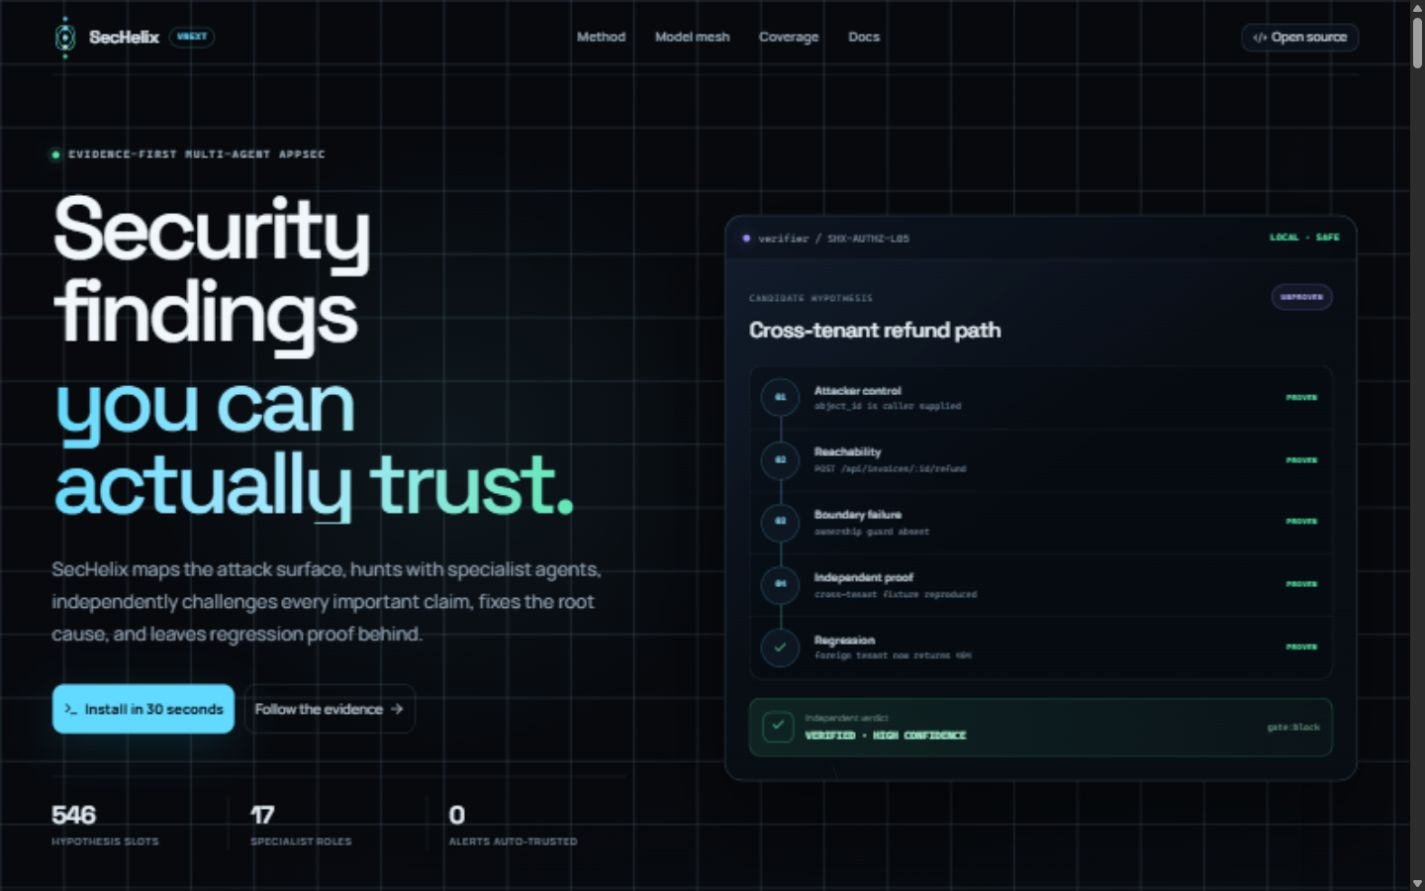
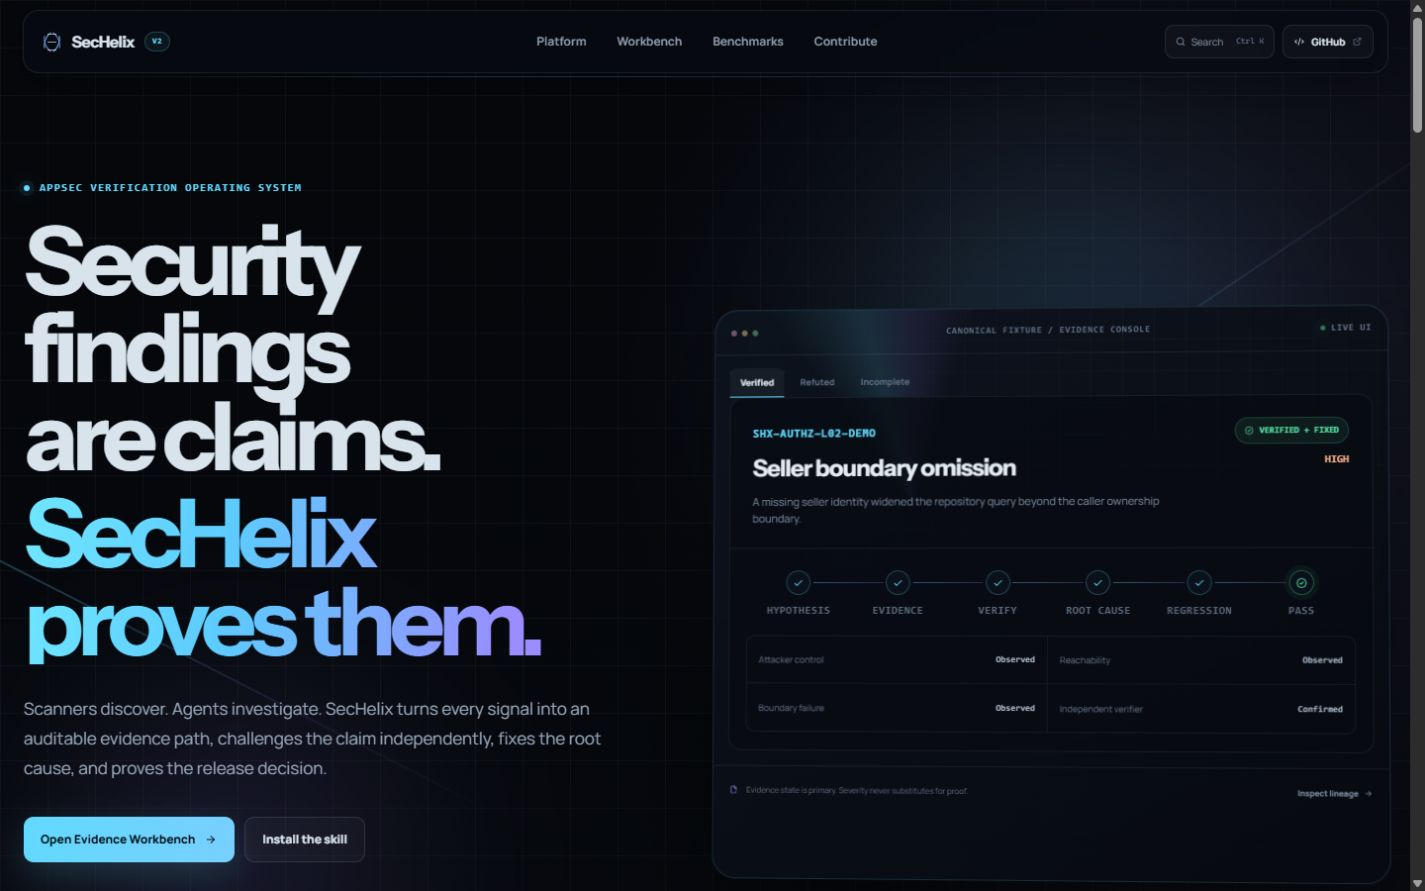
docs: sync SecHelix public V2 preview

diff --git a/README.md b/README.md
@@ -11,7 +11,7 @@
   <a href="https://skills.sh/omarmohelal/SecHelix"><img src="https://img.shields.io/badge/skills.sh-SecHelix-6ee7b7?style=flat-square" alt="skills.sh"/></a>
   <a href="https://github.com/omarmohelal/SecHelix/actions"><img src="https://img.shields.io/github/actions/workflow/status/omarmohelal/SecHelix/validate.yml?branch=main&style=flat-square&label=validate" alt="validation"/></a>
   <a href="SKILL.md"><img src="https://img.shields.io/badge/security%20hypotheses-546-7dd3fc?style=flat-square" alt="546 hypotheses"/></a>
-  <a href="CHANGELOG.md"><img src="https://img.shields.io/badge/release-3.0.0--alpha.3-9b8cff?style=flat-square" alt="3.0.0 alpha 3"/></a>
+  <a href="CHANGELOG.md"><img src="https://img.shields.io/badge/release-3.0.0--alpha.4-9b8cff?style=flat-square" alt="3.0.0 alpha 4"/></a>
   <a href="LICENSE"><img src="https://img.shields.io/badge/license-Apache--2.0-a78bfa?style=flat-square" alt="Apache-2.0"/></a>
   <a href="https://sechelix.magnoumx.chatgpt.site/support"><img src="https://img.shields.io/badge/support-crypto-facc15?style=flat-square" alt="Support SecHelix"/></a>
 </p>
@@ -42,7 +42,7 @@ It is intentionally not “an AI scanner with 500 payloads.” Instead, it coord
 
 A finding becomes trusted only when the evidence supports attacker control, reachability, a failed security boundary, a safe reproduction, concrete impact, root cause, and regression proof.
 
-### What ships in VNext
+### What ships in V2
 
 | Surface | Current state |
 |---|---|
@@ -56,19 +56,35 @@ A finding becomes trusted only when the evidence supports attacker control, reac
 | Release truth | `PASS`, `PASS_WITH_KNOWN_RISK`, `BLOCKED`, or fail-closed `INCOMPLETE` |
 | Evals | Eight vulnerable/clean fixture families; public aggregate results are **NOT_MEASURED** |
 
-### VNext product preview
+### V2 product preview
 
 The product site authoring source is private; these selected, source-free
 screenshots are published intentionally so the public framework has an honest
 visual preview. [Open the current SecHelix site →](https://sechelix.magnoumx.chatgpt.site)
 
 <p align="center">
-  <img src="assets/vnext-preview/home-alpha2.jpg" alt="SecHelix VNext alpha 2 interactive evidence workbench" width="100%" />
+  <img src="assets/vnext-preview/home-1440x900.jpg" alt="SecHelix V2 overview and interactive evidence console" width="100%" />
 </p>
 
-<p align="center">
-  <img src="assets/vnext-preview/extension-forge-alpha2.jpg" alt="SecHelix community extension manifest and review pipeline" width="100%" />
-</p>
+Additional responsive captures: [1920×1080 desktop](assets/vnext-preview/home-1920x1080.jpg) · [390×844 mobile](assets/vnext-preview/home-390x844.jpg)
+
+| Evidence Workbench | Attack Surface |
+|---|---|
+| <img src="assets/vnext-preview/workbench-1440x900.jpg" alt="SecHelix Evidence Workbench" width="100%" /> | <img src="assets/vnext-preview/attack-surface-1440x900.jpg" alt="SecHelix Attack Surface digital twin" width="100%" /> |
+
+| Authorization Matrix | Variant Analysis |
+|---|---|
+| <img src="assets/vnext-preview/authorization-matrix-1440x900.jpg" alt="SecHelix Authorization Matrix" width="100%" /> | <img src="assets/vnext-preview/variant-analysis-1440x900.jpg" alt="SecHelix Variant Analysis" width="100%" /> |
+
+| Benchmark Lab | Contribution workflow |
+|---|---|
+| <img src="assets/vnext-preview/benchmark-lab-1440x900.jpg" alt="SecHelix Benchmark Lab with honest NOT_MEASURED state" width="100%" /> | <img src="assets/vnext-preview/contribute-1440x900.jpg" alt="SecHelix governed contribution workflow" width="100%" /> |
+
+[Open the Workbench](https://sechelix.magnoumx.chatgpt.site/workbench) ·
+[Attack Surface](https://sechelix.magnoumx.chatgpt.site/attack-surface) ·
+[Authorization Matrix](https://sechelix.magnoumx.chatgpt.site/authorization) ·
+[Variant Analysis](https://sechelix.magnoumx.chatgpt.site/variants) ·
+[Benchmark Lab](https://sechelix.magnoumx.chatgpt.site/benchmarks)
 
 ## Install in 30 seconds
 
@@ -340,7 +356,7 @@ See [TROPHY_CASE.md](TROPHY_CASE.md).
 
 ## Roadmap
 
-Implemented in the VNext alpha:
+Implemented in the V2 alpha:
 
 - deterministic applicability and attack-surface graph contracts;
 - SARIF, Semgrep, CodeQL, OSV, Trivy, Gitleaks, package-audit, browser, ZAP, and Nuclei adapters;
@@ -349,6 +365,10 @@ Implemented in the VNext alpha:
 - signed evidence-bundle, audit/retention, CI, and private-policy-pack designs.
 - rights-aware source registry, deterministic live-research packets, and the
   first provenance-backed graph and lesson card.
+- Gold Check Pack contracts, one authorization reference pack, and a
+  deterministic Variant Hunter foundation;
+- the V2 Pro product surfaces: Evidence Workbench, Attack Surface,
+  Authorization Matrix, Variant Analysis, Benchmark Lab, and Command Center.
 
 Next work is rights-reviewed SARD/OWASP Benchmark ingestion, broader verified
 graph/lesson coverage, reproducible benchmark runs, model/provider scorecards,

diff --git a/ROADMAP.md b/ROADMAP.md
@@ -47,8 +47,8 @@ SecHelix should earn trust through evals before adding complexity.
 
 ## v3.0 alpha — contract-first orchestration foundation — current
 
-- fourteen versioned JSON contracts, including community extensions, source trust,
-  knowledge graph, lesson cards, and live research packets;
+- fifteen versioned JSON contracts, including community extensions, source trust,
+  knowledge graph, lesson cards, live research packets, and Gold Check Packs;
 - deterministic four-state applicability;
 - explicit 546-ID catalog and frozen manifest;
 - 17 specialist roles;
@@ -59,6 +59,10 @@ SecHelix should earn trust through evals before adding complexity.
 - curated community extension lifecycle with contract, safety, fixture, and maintainer gates.
 - rights-aware source registry with executable restrictions for human-only curricula;
 - deterministic live-research confidence and a provenance-backed graph/lesson-card seed.
+- one authorization Gold Check reference pack and deterministic Variant Hunter
+  classification foundation;
+- V2 Pro overview, Evidence Workbench, Attack Surface, Authorization Matrix,
+  Variant Analysis, Benchmark Lab, and Command Center product surfaces.
 
 ## v3.1 — expert knowledge engine
 
@@ -87,7 +91,7 @@ provider, or scanner.
 
 ## Research backlog
 
-- variant-analysis automation after a verified root cause;
+- broader variant-analysis automation after a verified root cause;
 - architecture-aware check selection;
 - proof minimization (smallest safe reproduction);
 - independent verifier calibration;

diff --git a/docs/releases/3.0.0-alpha.4.md b/docs/releases/3.0.0-alpha.4.md
@@ -1,0 +1,31 @@
+# SecHelix 3.0.0-alpha.4
+
+This alpha closes the V2 Pro product-polish and public-preview pass while
+preserving the private website-source boundary.
+
+## Product experience
+
+- interactive verification console with verified, refuted, and incomplete
+  fixture states;
+- Evidence Workbench covering hypothesis, evidence, independent verification,
+  root cause, remediation, regression proof, and release gate;
+- Attack Surface digital twin, Authorization Matrix, Variant Analysis, honest
+  Benchmark Lab, and Cmd/Ctrl+K Command Center;
+- mobile application navigation, larger technical copy, visible focus, and
+  reduced-motion support.
+
+## Framework truth
+
+- 546 explicit hypotheses across 21 families and 26 lenses;
+- 17 specialist roles;
+- 15 JSON contracts, including Gold Check Packs;
+- one authorization reference pack and deterministic Variant Hunter foundation;
+- aggregate benchmark status remains `NOT_MEASURED`.
+
+## Release hygiene
+
+- obsolete preview images and generated QA output were replaced or removed;
+- public screenshots contain no private source, source maps, credentials, or
+  local filesystem paths;
+- the private site and public framework retain separate repositories and
+  validation gates.

diff --git a/CHANGELOG.md b/CHANGELOG.md
@@ -2,6 +2,24 @@
 
 All notable changes to SecHelix are documented here.
 
+## [3.0.0-alpha.4] - 2026-09-01
+
+### V2 Pro release polish
+
+- Finished the private V2 Pro product surfaces for the interactive verification
+  console, Evidence Workbench, Attack Surface, Authorization Matrix, Variant
+  Analysis, Benchmark Lab, and Command Center.
+- Replaced inactive product navigation with implemented destinations and added
+  an accessible mobile application menu.
+- Kept finding severity separate from verification state and preserved honest
+  `NOT_MEASURED` benchmark semantics.
+- Removed obsolete generated QA output, unused UI primitives and dependencies,
+  historical CSS generations, and stale preview assets.
+- Refreshed the V2 screenshots and 1200×630 social card without publishing
+  private website source or production source maps.
+- Hardened repository hygiene, mobile legibility, keyboard focus, reduced
+  motion, link integrity, and the public/private release boundary.
+
 ## [3.0.0-alpha.3] - 2026-09-01
 
 ### Expert knowledge foundation

diff --git a/docs/VNEXT-CLOSEOUT.md b/docs/VNEXT-CLOSEOUT.md
@@ -1,5 +1,8 @@
 # VNext closeout
 
+> Historical note: this document records the `3.0.0-alpha.1` closeout. The
+> current release is documented in `docs/releases/3.0.0-alpha.4.md`.
+
 ## Delivered
 
 - Contract-first SecHelix core, catalog, attack-surface graph, applicability,
